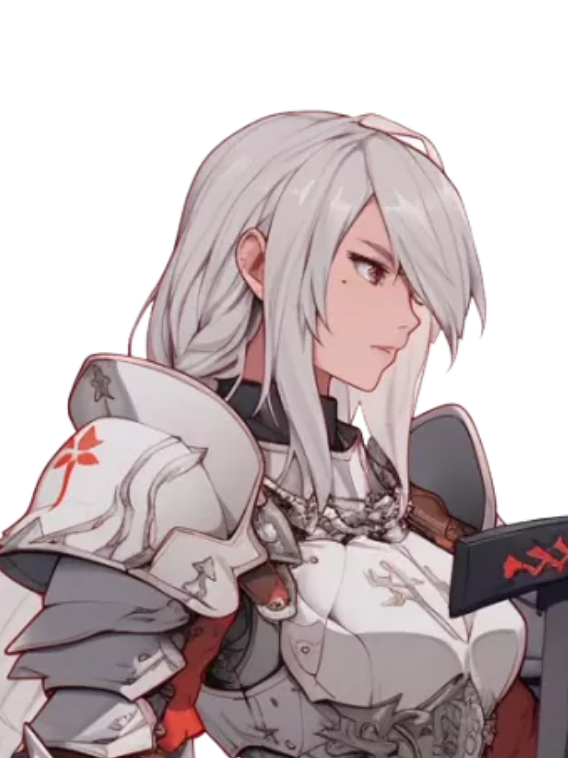
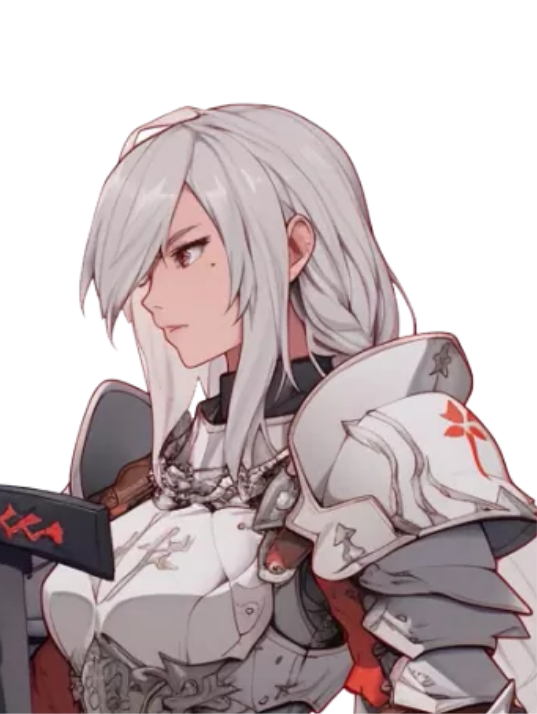
キャラクターのアイコン変更

diff --git a/js/GameScreen.js b/js/GameScreen.js
@@ -133,7 +133,7 @@ class GameScreen {
 
                     speech_bubble_reverse.draw(ctx)
                     
-                    ctx.drawImage(characterIcon,  aspect(Character_x - 580 + 718), aspect(Character_y - 350 - 41), aspect(268.46), aspect(356.89));
+                    ctx.drawImage(characterIcon,  aspect(Character_x - 580 + 718), aspect(Character_y - 350 - 50), aspect(268.46), aspect(356.89));
                     const talkTexc = new Text(Character_x - 444, Character_y - 180, talk.chapter01[this.TalkIndex][key], 'white',32, false, 'normal', 500);
                     talkTexc.drawText(ctx,Character_x - 444);
 
